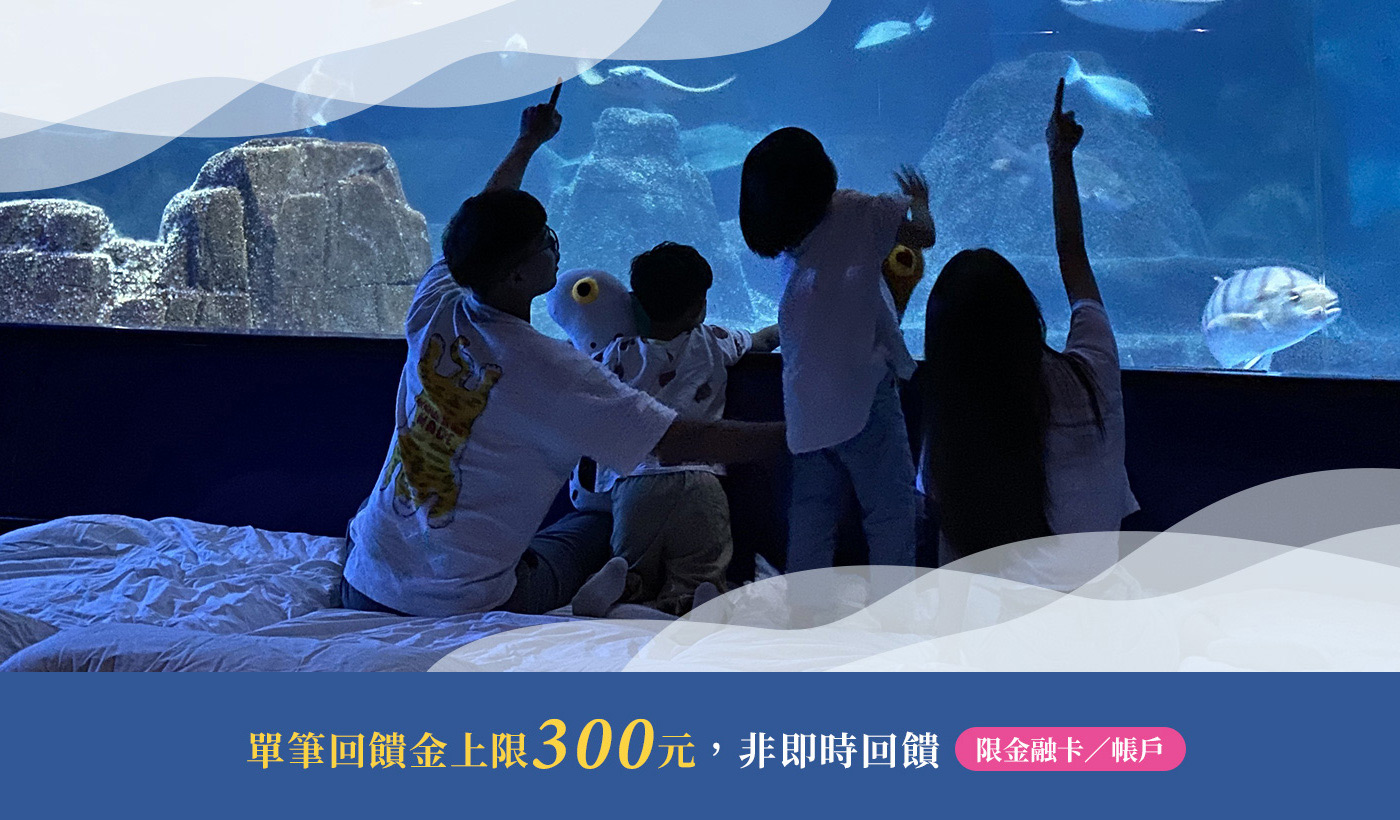
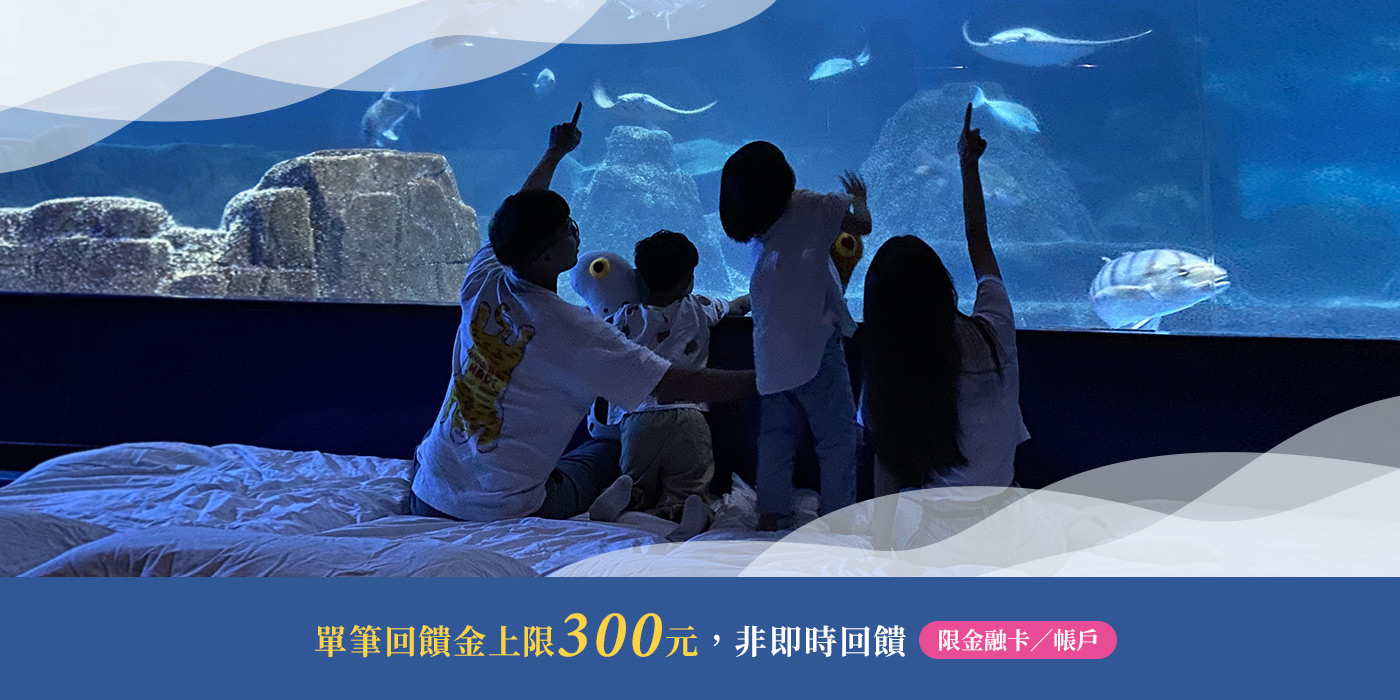
33

diff --git a/farglory/assets/css/main.css b/farglory/assets/css/main.css
@@ -10,11 +10,11 @@ img{margin: 0; padding: 0; display: block;}
 
 /* kv */
 .kv_container{width: 100%;}
-.kv{width: 100%; max-width: 1920px; margin: 0 auto; height: 0; padding-bottom: 42.7083334%; background: url("../images/kv_bg.jpg") center top no-repeat; background-size: 100% auto; position: relative;}
-.kv .title{width: 47%; margin: 0 auto; padding-top: 11%; opacity: 0; -webkit-animation: opacity .6s .3s ease-in-out forwards; animation: opacity .6s .3s ease-in-out forwards;}
-.kv .payji{width: 13%; position: absolute; right: 19%; top: 62%; animation: float 0.5s linear alternate infinite; -webkit-animation: float 0.5s linear alternate infinite;}
+.kv{width: 100%; max-width: 1920px; margin: 0 auto; height: 0; padding-bottom: 36.45833334%; background: url("../images/kv_bg.jpg") center top no-repeat; background-size: 100% auto; position: relative;}
+.kv .title{width: 40%; margin: 0 auto; padding-top: 9%; opacity: 0; -webkit-animation: opacity .6s .3s ease-in-out forwards; animation: opacity .6s .3s ease-in-out forwards;}
+.kv .payji{width: 11.5%; position: absolute; right: 19%; top: 53%; animation: float 0.5s linear alternate infinite; -webkit-animation: float 0.5s linear alternate infinite;}
 .kv .payji img {animation: move 5s -5s ease-in-out alternate infinite; -webkit-animation: move 5s -5s ease-in-out alternate infinite;}
-.kv .pic_circle{width: 18.5%; position: absolute; left: 10%; top: 50%;}
+.kv .pic_circle{width: 14%; position: absolute; left: 16%; top: 53%;}
 .mobOnly{display: none;}
 /* content */
 .content_container{ width: 100%; margin: 0 auto; 
@@ -89,10 +89,10 @@ img{margin: 0; padding: 0; display: block;}
 #contTab:checked ~  .content-more .readmore:hover{opacity: 1}
 @media screen and (max-width: 1400px) {
 /* kv */
-.kv{width: 100%; max-width: 1400px; margin: 0 auto; height: 0; padding-bottom: 58.57142857%; background: url("../images/kv_bg-1400.jpg") center top no-repeat; background-size: 100% auto;}
-.kv .title{width: 60%; padding-top: 15%;}
-.kv .payji{width: 17%; right: 4%; top: 63%;}
-.kv .pic_circle{width: 24%; left: -4.5%; top: 52%;}
+.kv{width: 100%; max-width: 1400px; margin: 0 auto; height: 0; padding-bottom: 50%; background: url("../images/kv_bg-1400.jpg") center top no-repeat; background-size: 100% auto;}
+.kv .title{width: 56%; padding-top: 13%;}
+.kv .payji{width: 16%; right: 5%; top: 52%;}
+.kv .pic_circle{width: 18%; left: 3%; top: 58%;}
 /* event */
 .event{width: 90%;}
 }
@@ -110,7 +110,7 @@ img{margin: 0; padding: 0; display: block;}
 /* kv */
 .kv{width: 100%; height: 0; padding-bottom: 127.708334%; margin: 0 auto; background: url("../images/kv_bg_m.jpg") center top no-repeat; background-size: 100% auto;}
 .kv .title{width: 84%; padding-top: 20%;}
-.kv .payji{width: 27%; right: 5%;}
+.kv .payji{width: 27%; right: 5%; top: 62%;}
 .kv .pic_circle{width: 36%; left: -6%; top: 62%;}
 .webOnly{display: none;}
 .mobOnly{display: block;}
